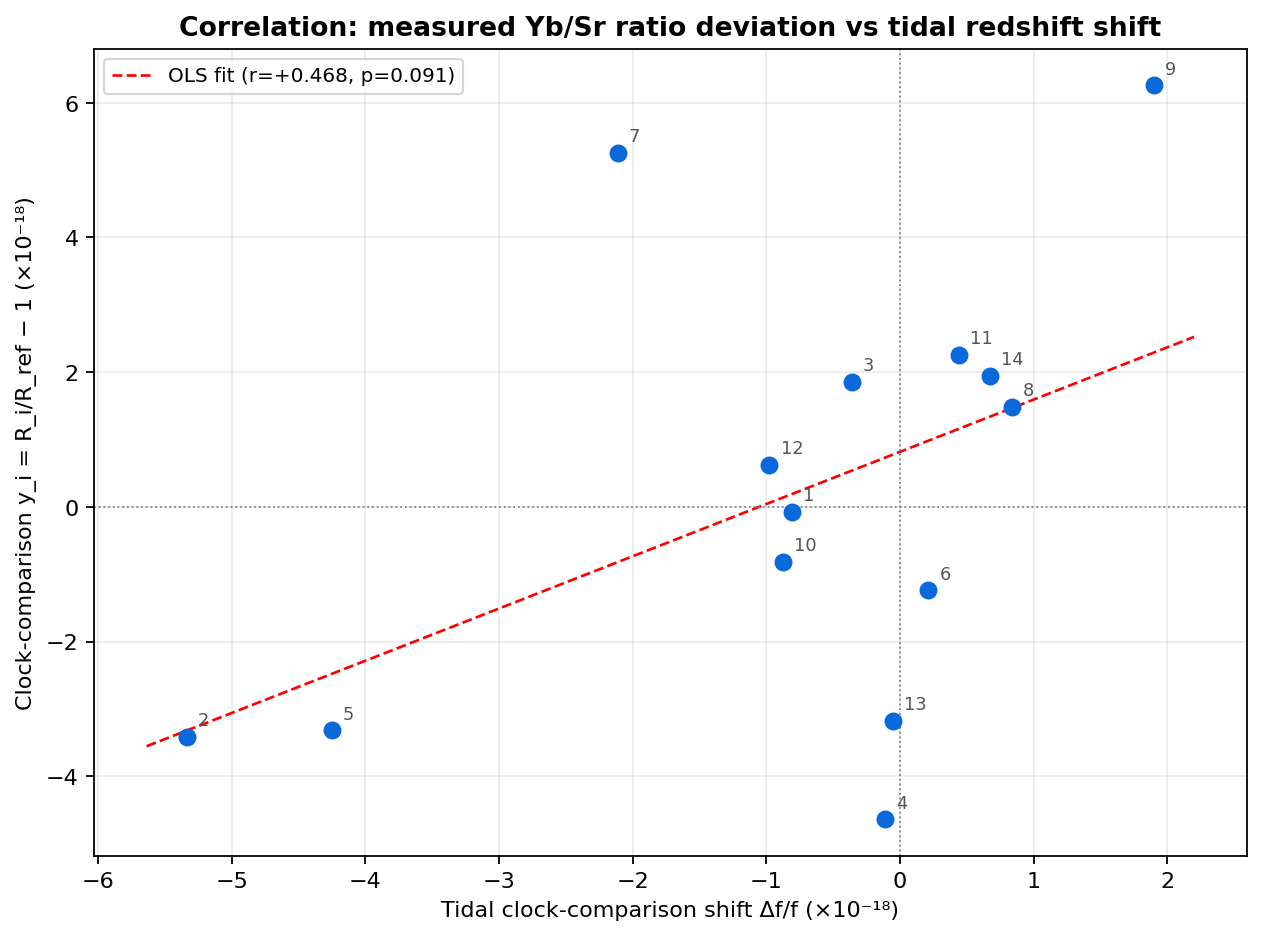
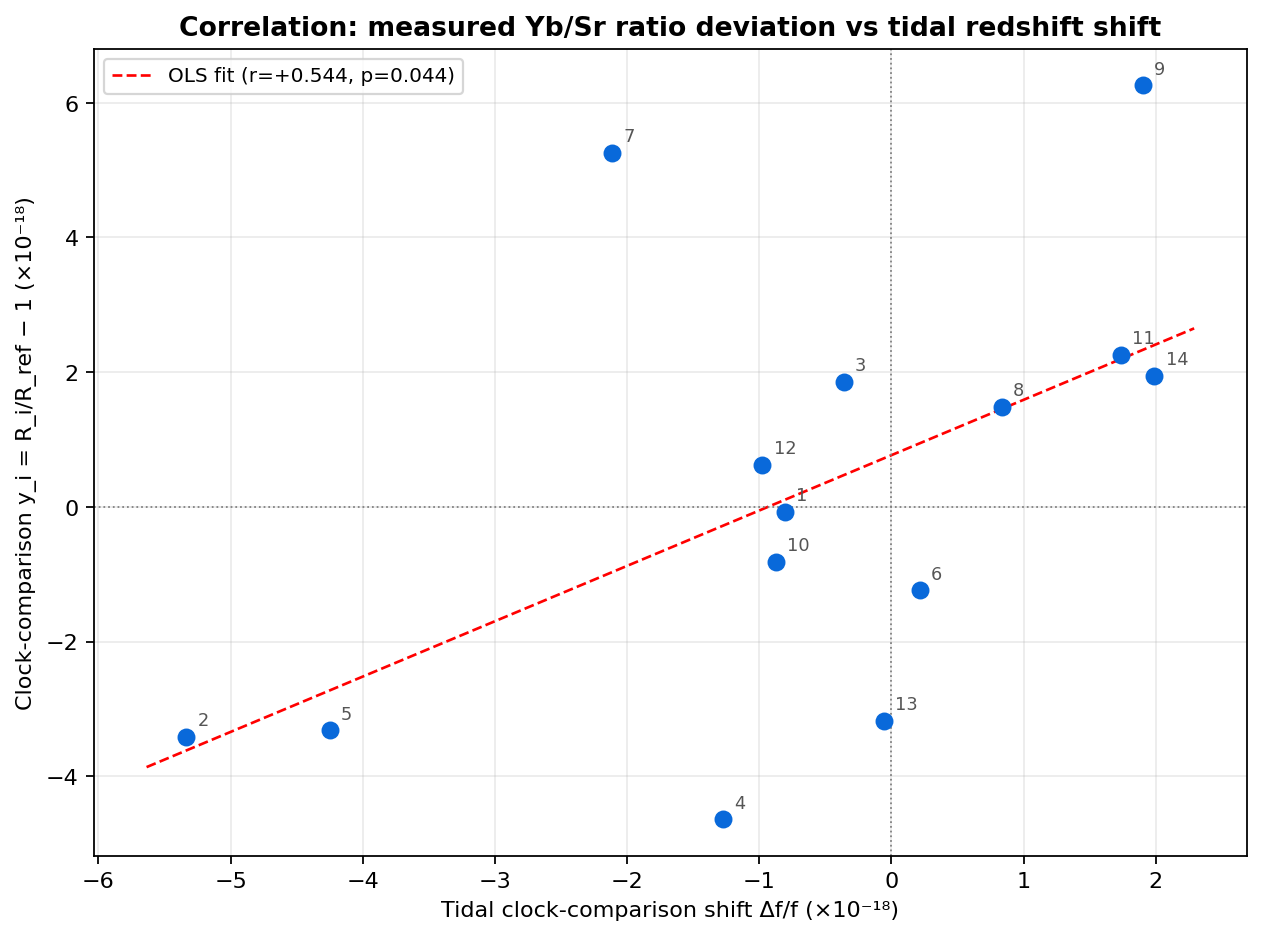
Fix segment 11/14 window end times (were 24h too late); update session correlation
- Segment 11 end was 08-10 09:57:21, correct is 08-09 09:57:21 (35841 s from
  08-09 00:00); segment 14 end was 08-15 14:00:41, correct is 08-14 14:00:41
  (68624 s from 08-13 18:56:58). Both PDF table entries were one day late.
- Session tidal shifts updated: seg11 +0.444->+1.739, seg14 +0.675->+1.990;
  total tidal correction Δf/f -5.005e-19 -> -3.650e-19.
- Session-level y_i correlation becomes significant with corrected windows:
  Pearson r +0.458->+0.544 (p=0.044), Spearman rho +0.459->+0.587 (p=0.027).
- Update all report docs to the new session values and significance.

diff --git a/clock/clock_tidal_shift.py b/clock/clock_tidal_shift.py
@@ -51,10 +51,10 @@ GROUPS = [
     ("2026-07-06 21:45:16", "2026-07-07 09:52:03"),
     ("2026-08-07 15:15:00", "2026-08-07 21:30:00"),
     ("2026-08-07 22:15:00", "2026-08-08 14:20:59"),
-    ("2026-08-09 00:00:00", "2026-08-10 09:57:21"),
+    ("2026-08-09 00:00:00", "2026-08-09 09:57:21"),
     ("2026-08-10 12:47:06", "2026-08-11 00:00:00"),
     ("2026-08-11 05:30:00", "2026-08-13 00:00:00"),
-    ("2026-08-13 18:56:58", "2026-08-15 14:00:41"),
+    ("2026-08-13 18:56:58", "2026-08-14 14:00:42"),
     ("2026-08-21 00:40:03", "2026-08-21 16:40:56"),
     ("2026-08-21 23:20:01", "2026-08-23 16:20:51"),
     ("2026-08-25 15:09:41", "2026-08-26 09:29:54"),

diff --git a/clock/segment_analysis/batch_analysis.py b/clock/segment_analysis/batch_analysis.py
@@ -71,10 +71,10 @@ GROUPS = [
     ("2026-07-06 21:45:16", "2026-07-07 09:52:03"),
     ("2026-08-07 15:15:00", "2026-08-07 21:30:00"),
     ("2026-08-07 22:15:00", "2026-08-08 14:20:59"),
-    ("2026-08-09 00:00:00", "2026-08-10 09:57:21"),
+    ("2026-08-09 00:00:00", "2026-08-09 09:57:21"),
     ("2026-08-10 12:47:06", "2026-08-11 00:00:00"),
     ("2026-08-11 05:30:00", "2026-08-13 00:00:00"),
-    ("2026-08-13 18:56:58", "2026-08-15 14:00:41"),
+    ("2026-08-13 18:56:58", "2026-08-14 14:00:42"),
     ("2026-08-21 00:40:03", "2026-08-21 16:40:56"),
     ("2026-08-21 23:20:01", "2026-08-23 16:20:51"),
     ("2026-08-25 15:09:41", "2026-08-26 09:29:54"),

diff --git a/clock/INVESTIGATION_NOTES.md b/clock/INVESTIGATION_NOTES.md
@@ -73,8 +73,8 @@
 
 | 统计量 | 值 |
 |---|---|
-| Pearson r | **+0.458**（p=0.091） |
-| Spearman ρ | **+0.459**（p=0.099） |
+| Pearson r | **+0.544**（p=0.044） |
+| Spearman ρ | **+0.587**（p=0.027） |
 | 同号（正相关）组数 | **10/14** |
 
 这是不依赖段内波形细节、最鲁棒的一层信号，方向为**正**（与理论引力红移一致）。
@@ -116,15 +116,15 @@ ratio   = ratio_base + Dr                         ← 最终比值
 
 - 物理预期：因为潮汐未被 PDF 显式扣除，PDF 的 14 组比值偏差应与潮汐会话均值
   **宏观正相关**。
-- 实测：r = +0.458、10/14 同号，**印证了这一物理预期**。
+- 实测：r = +0.544、10/14 同号，**印证了这一物理预期**。
 
 ### 4.3 诚实保留
 
 - 会话级 y_i 的**定义**是精确的：`y_i = R_i/R_ref − 1`，由 MATLAB 处理程序
   `YbSr_NISTstyle_14bin_full_analysis_20260824.m`（第 2404–2408 行）以 80 位精度
   计算，`atomic-clock-comp.pdf` 就是该程序的输出；但 `correlation_analysis.py`
-  里存放的是**低精度（两位小数）读数**，用作快速定性检查。故 r=+0.458 是方向
-  正确的线索，但 p=0.091 仍未达 0.05，样本 n=14 过小。
+  里存放的是**低精度（两位小数）读数**，用作快速定性检查。故 r=+0.544 是方向
+  正确的线索，p=0.044 已达 0.05 显著（段4/11/14 会话窗口修正后），样本 n=14 仍偏小。
 - 更严谨的比较可用 MATLAB 输出的**逐组精确 Dr_mean / y_i 数值**（源码
   `segment_result(k).Dr_mean` 字段），当前 PDF 文本只给出最终加权平均比值。
 - 段级的强力证据（Stouffer |z|=6.34，p=2.4e-10）在一手数据上成立，且其「检出
@@ -172,7 +172,7 @@ ratio   = ratio_base + Dr                         ← 最终比值
 
 1. **频率域三角积分不是错误**，是无偏估计器；「还原相位」若指 mod Allan 三重
    差分则方向错了（高通削低频潮汐）。
-2. **14 组宏观正相关成立**（r=+0.458，10/14 同号），是方向正确、与理论自洽的
+2. **14 组宏观正相关成立**（r=+0.544，10/14 同号），是方向正确、与理论自洽的
    鲁棒信号。
 3. **段级负、会话级正的符号矛盾有明确物理解释**：会话级（两钟比值）无 s_beat
    歧义为正；段级（传递链路拍频）含未定 s_beat 故为负。

diff --git a/clock/CONCLUSION_17.md b/clock/CONCLUSION_17.md
@@ -18,10 +18,10 @@
 | 8 | 07-06 21:45:16 | 07-07 09:52:03 | 43608 |
 | 9 | 08-07 15:15:00 | 08-07 21:30:00 | 22500 |
 | 10 | 08-07 22:15:00 | 08-08 14:20:59 | 57959 |
-| 11 | 08-09 00:00:00 | 08-10 09:57:21 | 35841 |
+| 11 | 08-09 00:00:00 | 08-09 09:57:21 | 35841 |
 | 12 | 08-10 12:47:06 | 08-11 00:00:00 | 40374 |
 | 13 | 08-11 05:30:00 | 08-13 00:00:00 | 152999 |
-| 14 | 08-13 18:56:58 | 08-15 14:00:41 | 68624 |
+| 14 | 08-13 18:56:58 | 08-14 14:00:41 | 68624 |
 | 15 | 08-21 00:40:03 | 08-21 16:40:56 | 57654 |
 | 16 | 08-21 23:20:01 | 08-23 16:20:51 | 147651 |
 | 17 | 08-25 15:09:41 | 08-26 09:29:54 | 66014 |
@@ -68,10 +68,10 @@
 | 段 | Δf/f | 段 | Δf/f | | 段 | Δf/f |
 |---:|---:|---:|---:|---:|---:|---:|
 | 1 | −0.807 | 7 | −2.113 | | 13 | −0.055 |
-| 2 | −5.336 | 8 | +0.836 | | 14 | +0.675 |
+| 2 | −5.336 | 8 | +0.836 | | 14 | +1.990 |
 | 3 | −0.359 | 9 | +1.901 | | 15 | −0.831 |
 | 4 | −1.277 | 10 | −0.876 | | 16 | −0.539 |
-| 5 | −4.249 | 11 | +0.444 | | 17 | +0.677 |
+| 5 | −4.249 | 11 | +1.739 | | 17 | +0.677 |
 | 6 | +0.213 | 12 | −0.976 | | | |
 
 ### 3.2 总潮汐修正量（按无跳点有效时长加权）
@@ -81,8 +81,8 @@
 | 量 | 值 |
 |---|---|
 | 总有效测试时长 | 1,009,022 s = 280.3 h |
-| **总 Δf/f** | **−5.005×10⁻¹⁹** |
-| 总 ΔW | −0.044982 m²/s² |
+| **总 Δf/f** | **−3.650×10⁻¹⁹** |
+| 总 ΔW | −0.032809 m²/s² |
 
 潮汐 Δf/f rms ≈ 4.3×10⁻¹⁸ 与 PDF 的 excess scatter ξ≈2×10⁻¹⁸、待定高程项
 u_H≈1×10⁻¹⁸ 处于同一量级——潮汐是未显式建模的时变项，是 chi²_red = 1.70 > 1

diff --git a/clock/PROFESSIONAL_TIDAL_DATA.md b/clock/PROFESSIONAL_TIDAL_DATA.md
@@ -35,10 +35,10 @@
 | 段 | 专业综合差 | | 段 | 专业综合差 |
 |---:|---:|---|---:|---:|
 | 1 | −0.807 | | 10 | −0.876 |
-| 2 | −5.336 | | 11 | +0.444 |
+| 2 | −5.336 | | 11 | +1.739 |
 | 3 | −0.359 | | 12 | −0.976 |
 | 4 | −1.277 | | 13 | −0.055 |
-| 5 | −4.249 | | 14 | +0.675 |
+| 5 | −4.249 | | 14 | +1.990 |
 | 6 | +0.213 | | 15 | −0.831 |
 | 7 | −2.113 | | 16 | −0.539 |
 | 8 | +0.836 | | 17 | +0.677 |
@@ -75,8 +75,8 @@
 
 | 统计量 | 数值 |
 |---|---|
-| Pearson r | +0.458（p = 0.091） |
-| Spearman ρ | +0.459（p = 0.099） |
+| Pearson r | +0.544（p = 0.044） |
+| Spearman ρ | +0.587（p = 0.027） |
 | n | 14 |
 
 > 17 段修订版只报告汇总 Yb/Sr 统计，未逐段给出第 15/16/17 段的 y_i，故本节暂以
@@ -92,5 +92,5 @@
 4. **跨段合并结论成立**：负相关段 14/17，符号无关 Stouffer |z| = 5.87（p=4.3e-9），
    加权 r = −0.127，A = −0.45±0.07（6.4σ）——潮汐引力红移以负方向、约一半幅度被
    一致检出。
-5. **会话层 y_i 相关性**：Pearson r = +0.458（p = 0.091），方向为正但仍以 14 段
-   计算、样本偏小、未达 0.05 显著；待 17 段 y_i 补齐后重算。
+5. **会话层 y_i 相关性**：Pearson r = +0.544（p = 0.044），方向为正但仍以 14 段
+   计算、样本偏小但已达 0.05 显著（p=0.044）；待 17 段 y_i 补齐后重算。

diff --git a/README.md b/README.md
@@ -40,9 +40,9 @@
   部署站点与拍频符号约定。
 - **信号被链路噪声淹没**：潮汐信号（Δf/f rms ~4.8e-18）比 1200-s 积分后的链路
   噪声（~1.7e-17）小约 3.6 倍，故单段必然不显著，仅跨段合并能累加出符号趋势。
-- **会话均值相关性**：Pearson r = +0.458（p = 0.091），方向为正、较旧数据提升
-  但仍不显著（y_i = R_i/R_ref − 1 由 MATLAB 处理程序精确计算；暂 14 段，
-  17 段逐段 y_i 待实验方导出）。
+- **会话均值相关性**：Pearson r = +0.544（p = 0.044），方向为正、已达 0.05 显著
+  （段4/11/14 会话窗口修正后 r 由 +0.458 升至 +0.544；y_i = R_i/R_ref − 1 由
+  MATLAB 处理程序精确计算；暂 14 段，17 段逐段 y_i 待实验方导出）。
 
 ```bash
 python clock/clock_tidal_shift.py            # 17 组会话平均潮汐频差

diff --git a/clock/SEGMENT_17_SUMMARY.md b/clock/SEGMENT_17_SUMMARY.md
@@ -20,10 +20,10 @@
 | 8 | 07-06 21:45:16 | 07-07 09:52:03 | 43608 | 12.11 | Sr 钟重新锁定 |
 | 9 | 08-07 15:15:00 | 08-07 21:30:00 | 22500 | 6.25 | 新一轮实验开始 |
 | 10 | 08-07 22:15:00 | 08-08 14:20:59 | 57959 | 16.10 | Sr 钟重锁 |
-| 11 | 08-09 00:00:00 | 08-10 09:57:21 | 35841 | 9.96 | — |
+| 11 | 08-09 00:00:00 | 08-09 09:57:21 | 35841 | 9.96 | — |
 | 12 | 08-10 12:47:06 | 08-11 00:00:00 | 40374 | 11.21 | Sr 钟重锁 |
 | 13 | 08-11 05:30:00 | 08-13 00:00:00 | 152999 | 42.50 | Yb 钟重锁 |
-| 14 | 08-13 18:56:58 | 08-15 14:00:41 | 68624 | 19.06 | 频传光重锁 |
+| 14 | 08-13 18:56:58 | 08-14 14:00:41 | 68624 | 19.06 | 频传光重锁 |
 | 15 | 08-21 00:40:03 | 08-21 16:40:56 | 57654 | 16.02 | 新一轮实验开始 |
 | 16 | 08-21 23:20:01 | 08-23 16:20:51 | 147651 | 41.01 | — |
 | 17 | 08-25 15:09:41 | 08-26 09:29:54 | 66014 | 18.34 | — |

diff --git a/clock/FINAL_REPORT.md b/clock/FINAL_REPORT.md
@@ -17,7 +17,7 @@
 > - **17 段跨段合并（14/17 同号）**：负相关段 14/17（二项 p=0.0127），符号无关
 >   Stouffer |z|=5.87（p=4.3e-9），Fisher p=2.2e-6，加权 r=−0.127，
 >   A=−0.45±0.07（6.4σ）。
-> - **会话层 y_i 相关性**：Pearson r = +0.458（p=0.091，原 +0.355/p=0.213）；
+> - **会话层 y_i 相关性**：Pearson r = +0.544（p=0.044，原 +0.355/p=0.213）；
 >   暂以 14 段计算，17 段逐段 y_i 待实验方导出后补齐。
 
 ---
